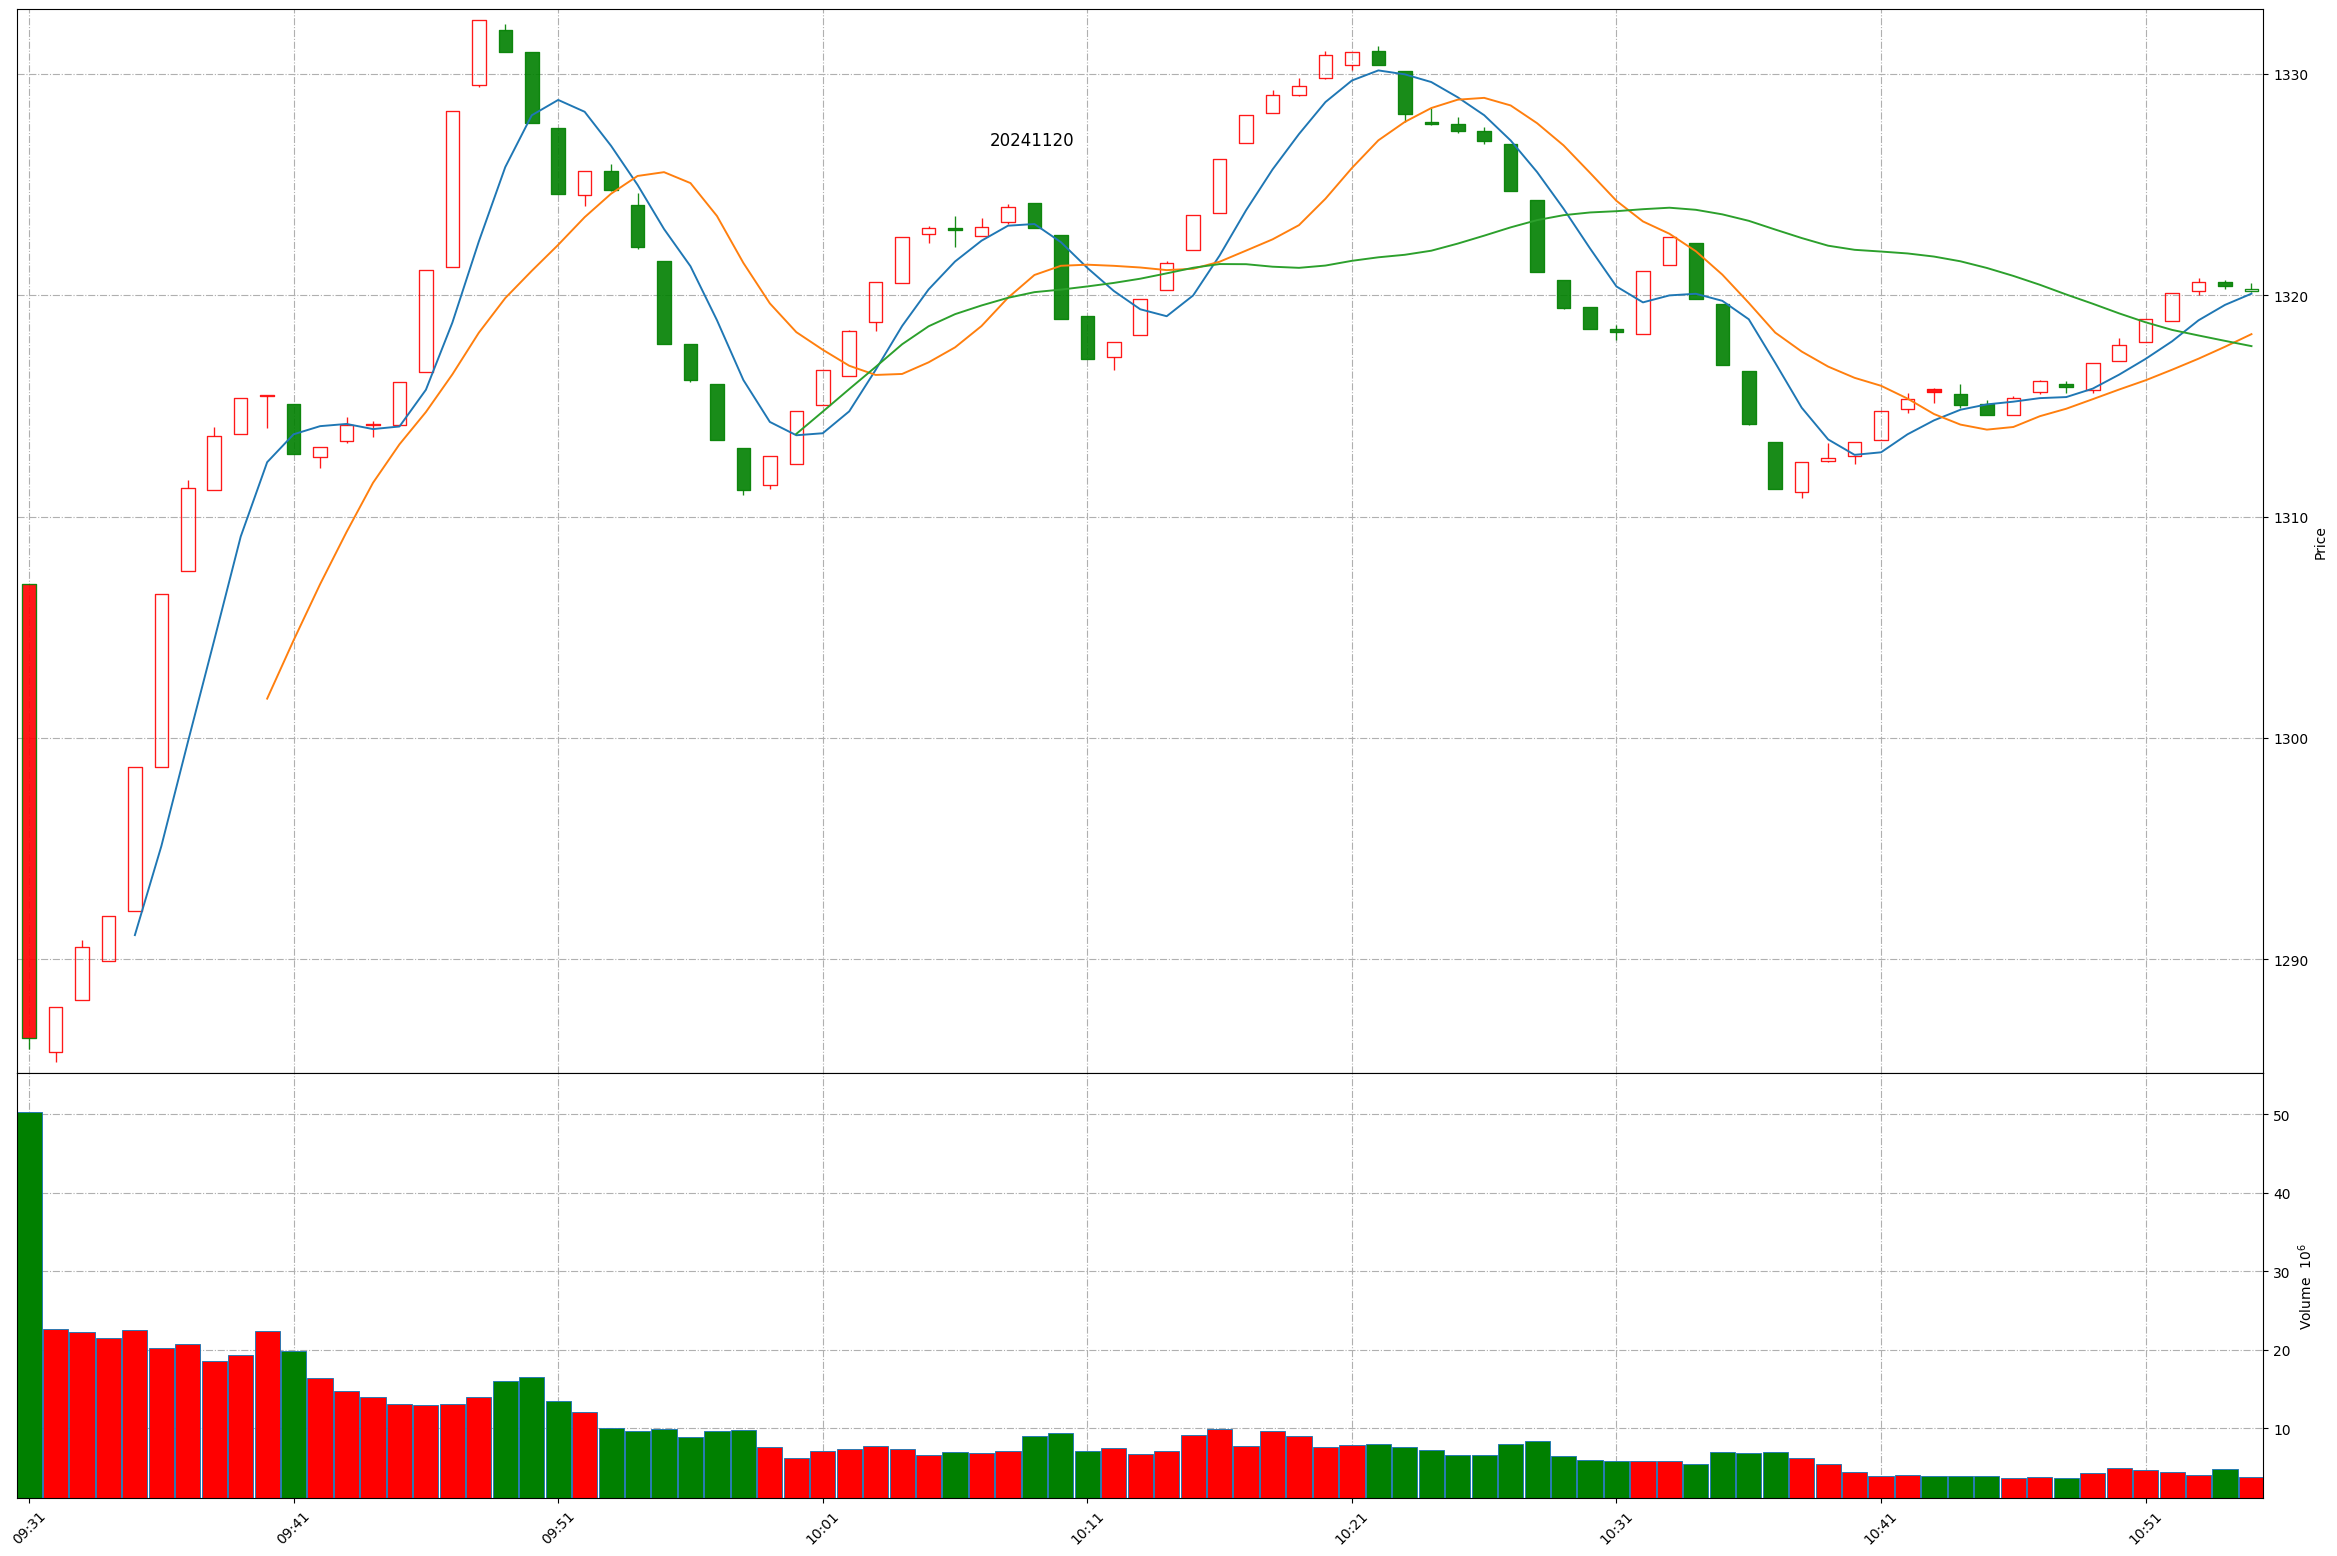
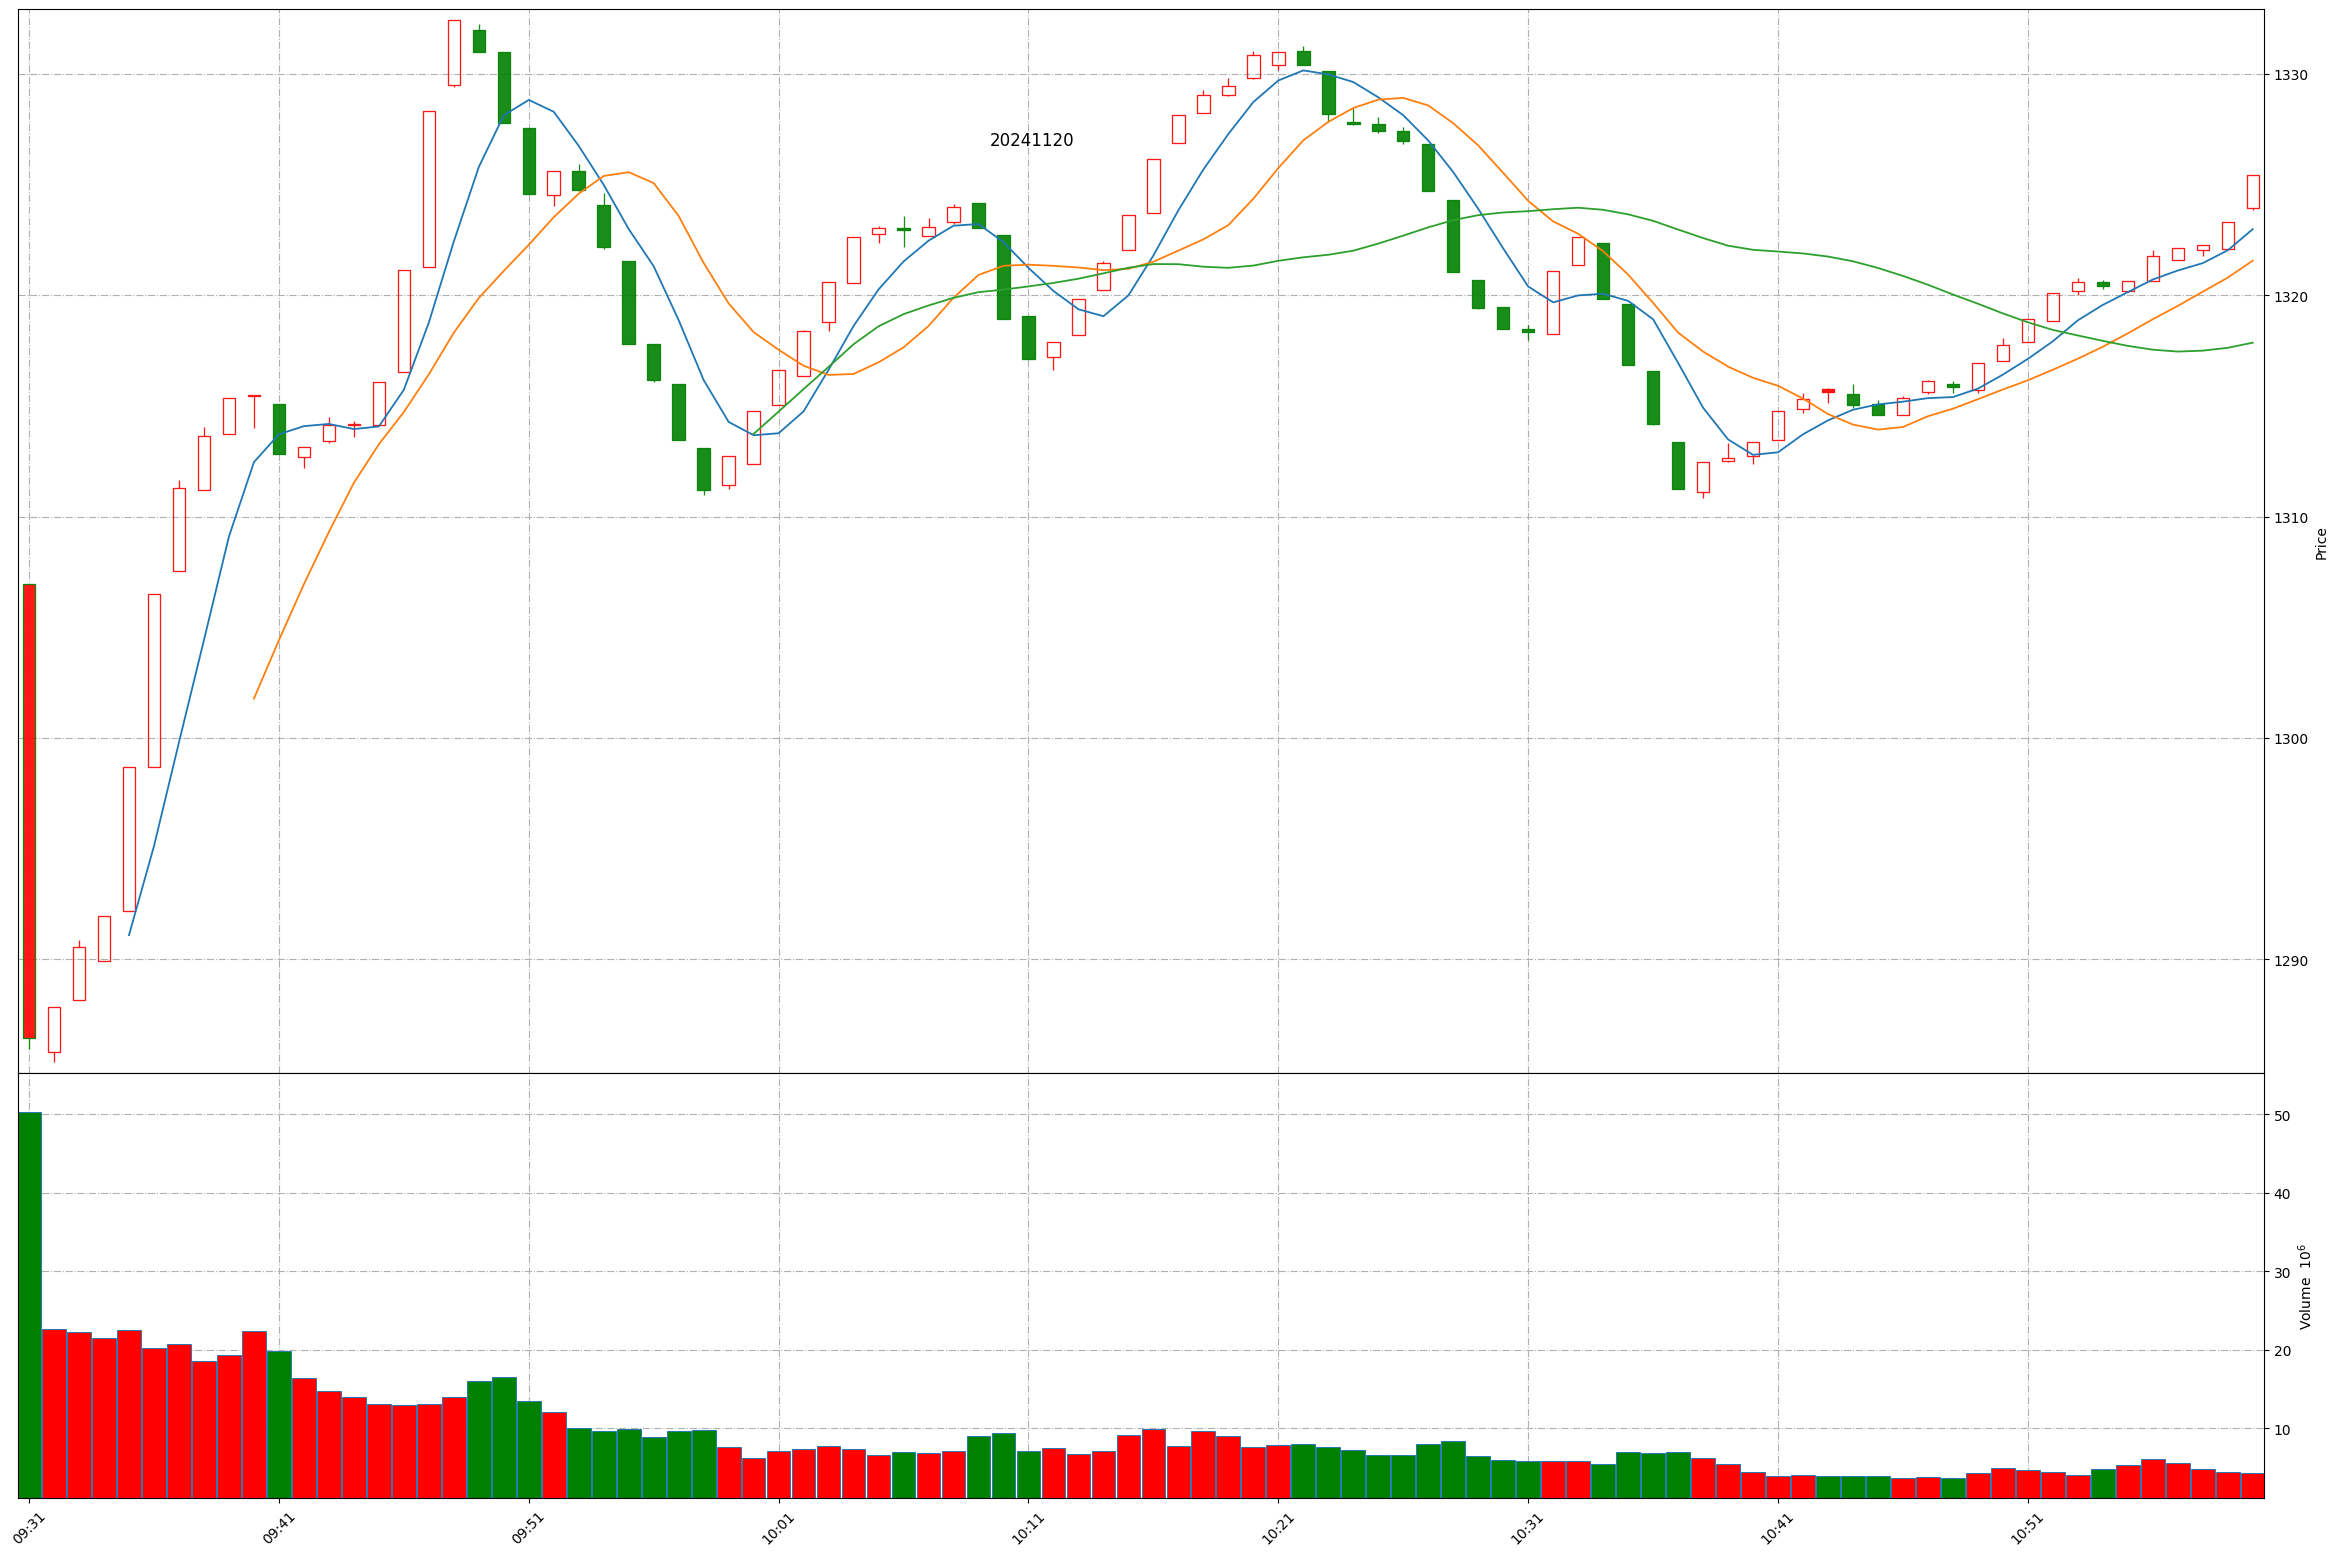
Github action update at 2024-11-20 11:00:07.

diff --git a/README.md b/README.md
@@ -1,11 +1,11 @@
 
 # Daily-A-share-market-quotes 每日 A 股指数（5min 更新）- 20241120
 
-### 上证指数 20241120 10:54
+### 上证指数 20241120 11:0
 ![](./fig/2024/11/20241120-sh000001.png)
 
-### 深证成指 20241120 10:54
+### 深证成指 20241120 11:0
 ![](./fig/2024/11/20241120-sz399001.png)
 
-### 北证50 20241120 10:54
+### 北证50 20241120 11:0
 ![](./fig/2024/11/20241120-bj899050.png)
